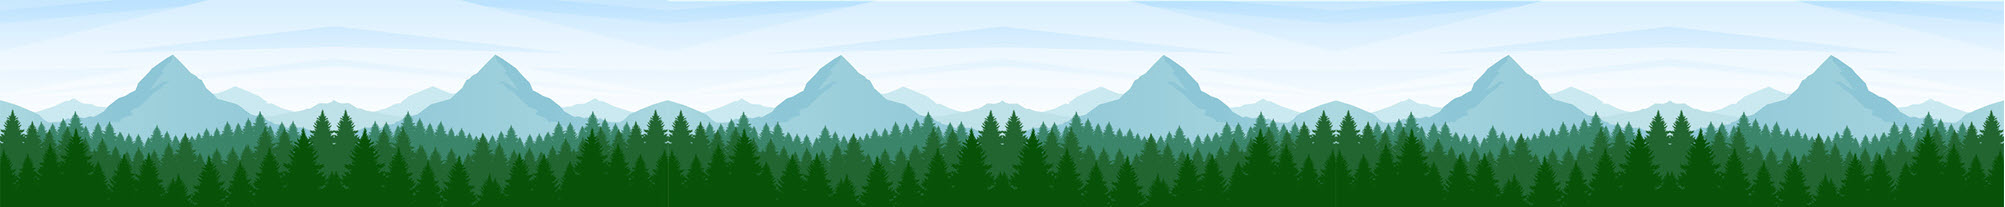
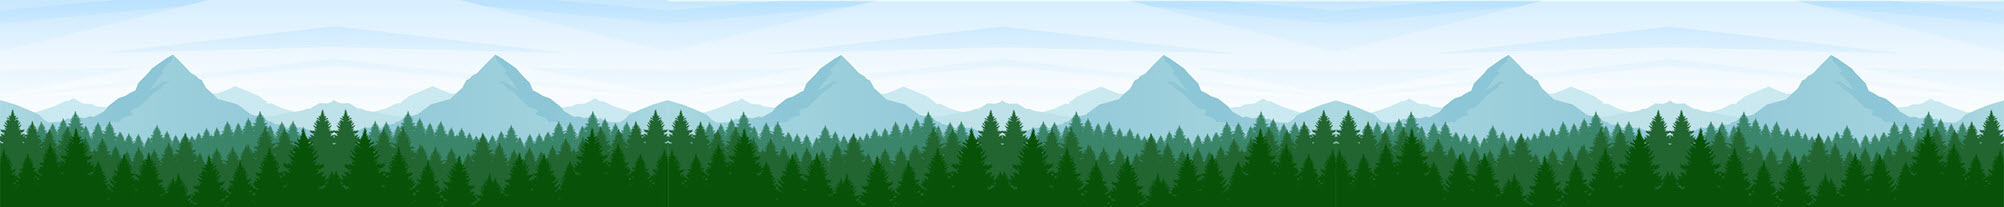
fixed the gaps in two background images

diff --git a/src/constants.ts b/src/constants.ts
@@ -5,7 +5,7 @@
 import { Color, Euler, Vector2, Vector3 } from 'three';
 import platform from 'platform';
 
-export const VERSION = '1.6.2';
+export const VERSION = '1.6.3';
 
 // used for check old file that need to update light intensity.
 export const LIGHT_INTENSITY_CHANGED_VERSION = '1.5.0';
